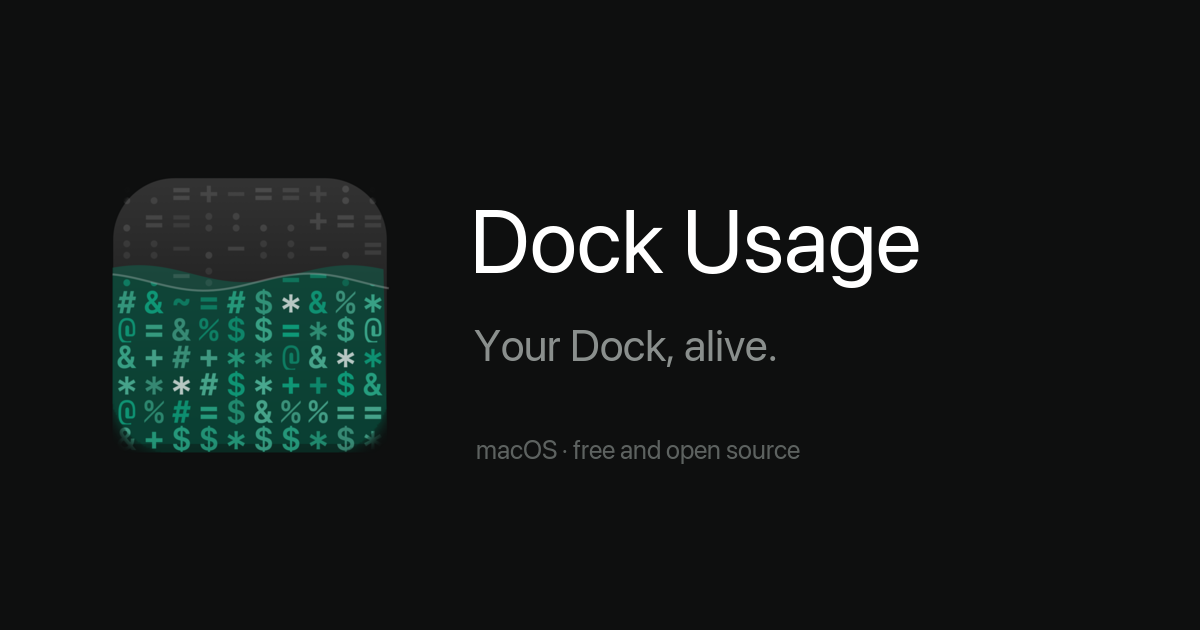
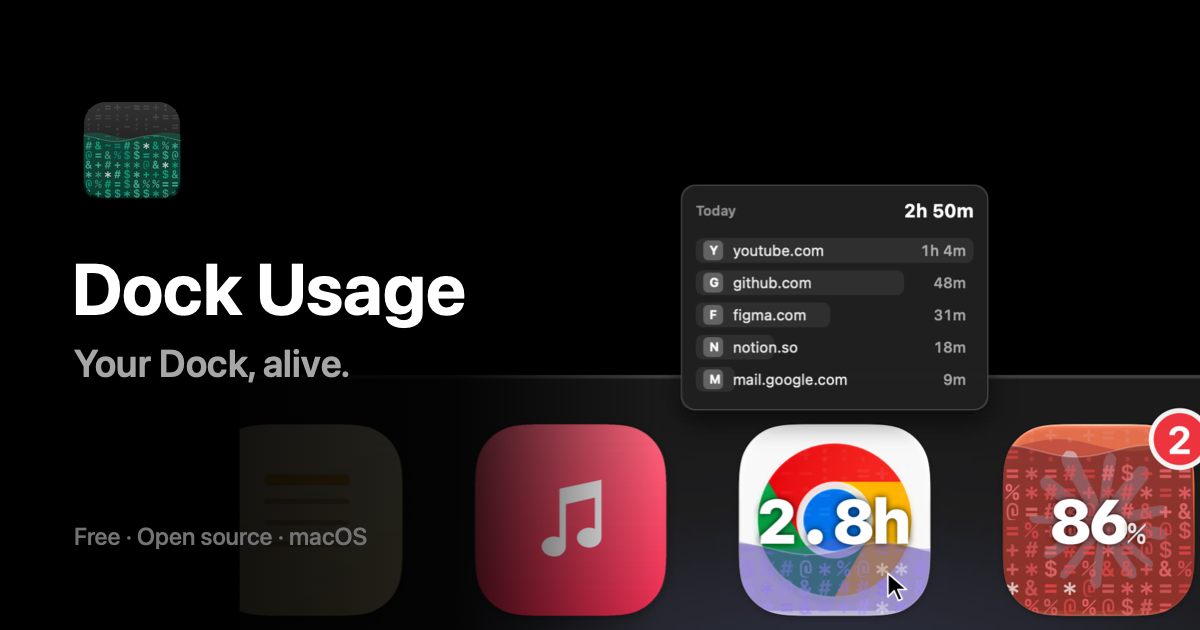
官網分享預覽圖改用影片畫面當主視覺

diff --git a/site/make-og.swift b/site/make-og.swift
@@ -1,0 +1,23 @@
+// 分享預覽圖：影片封面當主視覺＋app 圖示和標語。swiftc make-og.swift -o /tmp/og && /tmp/og <appicon512.png> og-image.png
+import AppKit
+let poster = NSImage(contentsOfFile: "/Users/dora/me/usage-meter/site/assets/intro-poster.jpg")!
+let W: CGFloat = 1200, H: CGFloat = 630
+let img = NSImage(size: NSSize(width: W, height: H), flipped: false) { _ in
+  NSColor.black.setFill(); NSRect(x: 0, y: 0, width: W, height: H).fill()
+  // 影片畫面：Dock 和熱門網站卡，放在下方偏右
+  let ps = poster.size, scale: CGFloat = 0.62
+  let dw = ps.width * scale, dh = ps.height * scale
+  poster.draw(in: NSRect(x: W - dw + 230, y: -70, width: dw, height: dh))
+  // 左側漸層，讓字讀得清楚
+  NSGradient(colors: [NSColor.black, NSColor.black.withAlphaComponent(0.85), NSColor.black.withAlphaComponent(0)], atLocations: [0, 0.38, 0.55], colorSpace: .sRGB)!.draw(in: NSRect(x: 0, y: 0, width: W, height: H), angle: 0)
+  let icon = NSImage(contentsOfFile: CommandLine.arguments[1])!
+  icon.draw(in: NSRect(x: 72, y: 420, width: 120, height: 120))
+  NSAttributedString(string: "Dock Usage", attributes: [.font: NSFont.systemFont(ofSize: 72, weight: .bold), .foregroundColor: NSColor.white]).draw(at: NSPoint(x: 72, y: 300))
+  NSAttributedString(string: "Your Dock, alive.", attributes: [.font: NSFont.systemFont(ofSize: 38, weight: .semibold), .foregroundColor: NSColor(white: 0.65, alpha: 1)]).draw(at: NSPoint(x: 74, y: 245))
+  NSAttributedString(string: "Free · Open source · macOS", attributes: [.font: NSFont.systemFont(ofSize: 24, weight: .medium), .foregroundColor: NSColor(white: 0.45, alpha: 1)]).draw(at: NSPoint(x: 74, y: 80))
+  return true }
+let rep = NSBitmapImageRep(bitmapDataPlanes: nil, pixelsWide: Int(W), pixelsHigh: Int(H), bitsPerSample: 8, samplesPerPixel: 4, hasAlpha: true, isPlanar: false, colorSpaceName: .deviceRGB, bytesPerRow: 0, bitsPerPixel: 0)!
+rep.size = NSSize(width: W, height: H)
+NSGraphicsContext.saveGraphicsState(); NSGraphicsContext.current = NSGraphicsContext(bitmapImageRep: rep)
+img.draw(in: NSRect(x: 0, y: 0, width: W, height: H)); NSGraphicsContext.restoreGraphicsState()
+try! rep.representation(using: .png, properties: [:])!.write(to: URL(fileURLWithPath: CommandLine.arguments[2]))
